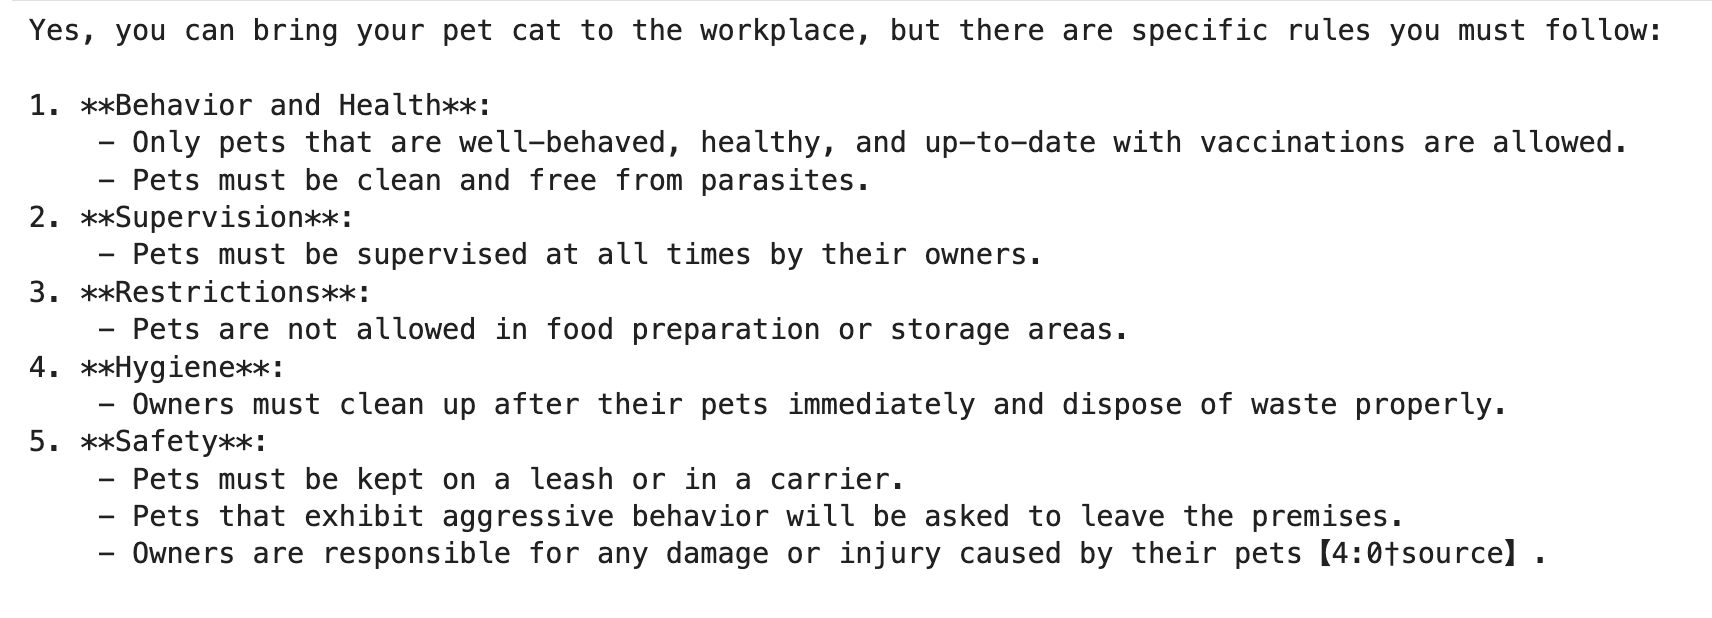
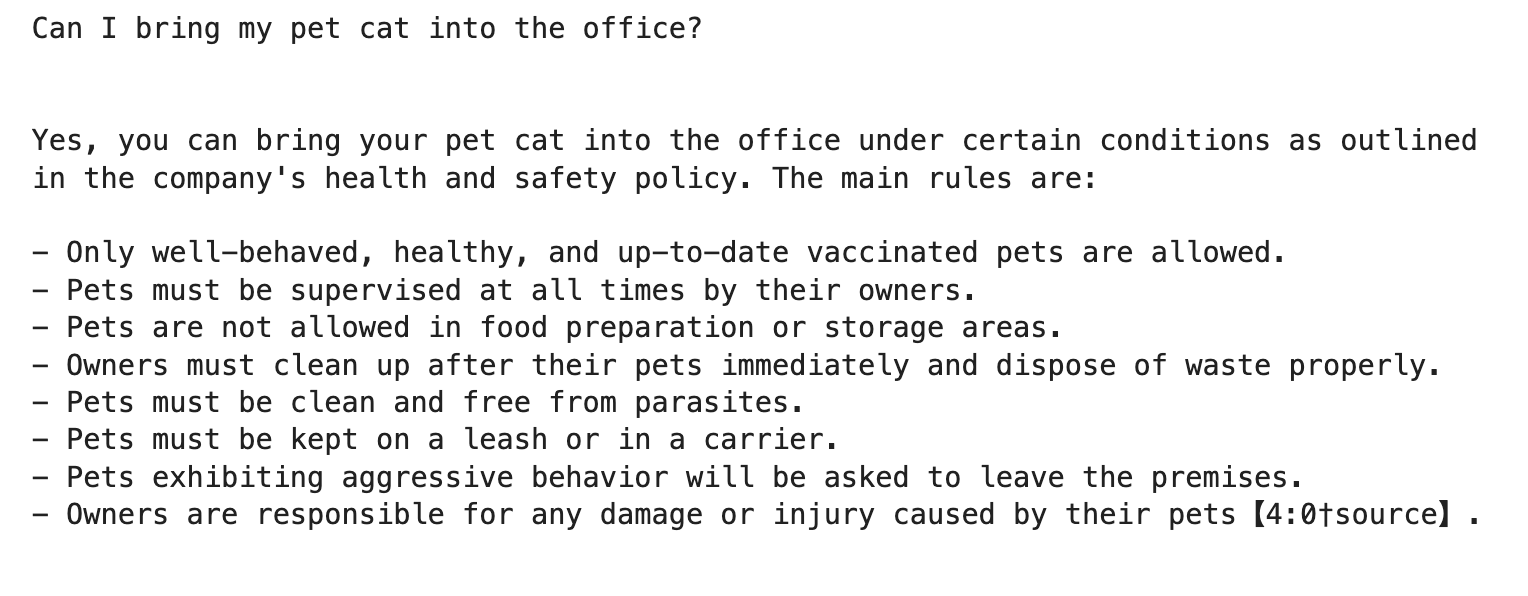
update Readme and add pictures

Changed region(s): [[0.0, 0.151, 0.9843, 0.9362], [0.0, 0.0302, 0.9843, 0.0906]]

diff --git a/README.md b/README.md
@@ -6,9 +6,6 @@ I uploaded 2 files programmatically to OpenAI's Vector Store, one in `.pdf` and 
 I'm using the Assistants API to search these files to answer user questions, using the uploaded files as embedded documents. The Assistant automatically decides which document to use and answers the related questions correctly:
 
 
-`Question: Can I bring my pet cat into the office?`
-
-
 ![policy-answer](policy-answer.png)
 
 
@@ -18,9 +15,10 @@ I'm using the Assistants API to search these files to answer user questions, usi
 I uploaded the Microsoft Corporation's latest weekly stock price data for the last 2 years in `pdf` file format into OpenAI's Vector Store.
 I enabled both the 'file_search' and the 'code_interpreter' tools for the Assistant and asked it to visualise the data:
 
-`Prompt: Visualize the Microsoft Corporations stock prices in the last 2 years`
+`Prompt: Visualize the Microsoft Corporations stock prices for the last 2 years`
 
 ![visual_from_pdf](visual_from_pdf.png)
+![visual_description](visual-description.png)
 
 I repeated this exercise with providing a `.json` file instead of the `pdf` and OpenAI was able to create the same [result](visual_from_json.png). At the time of writing, other file formats, such as `.csv` or `.xlsx` were not supported for embeddings.
 
